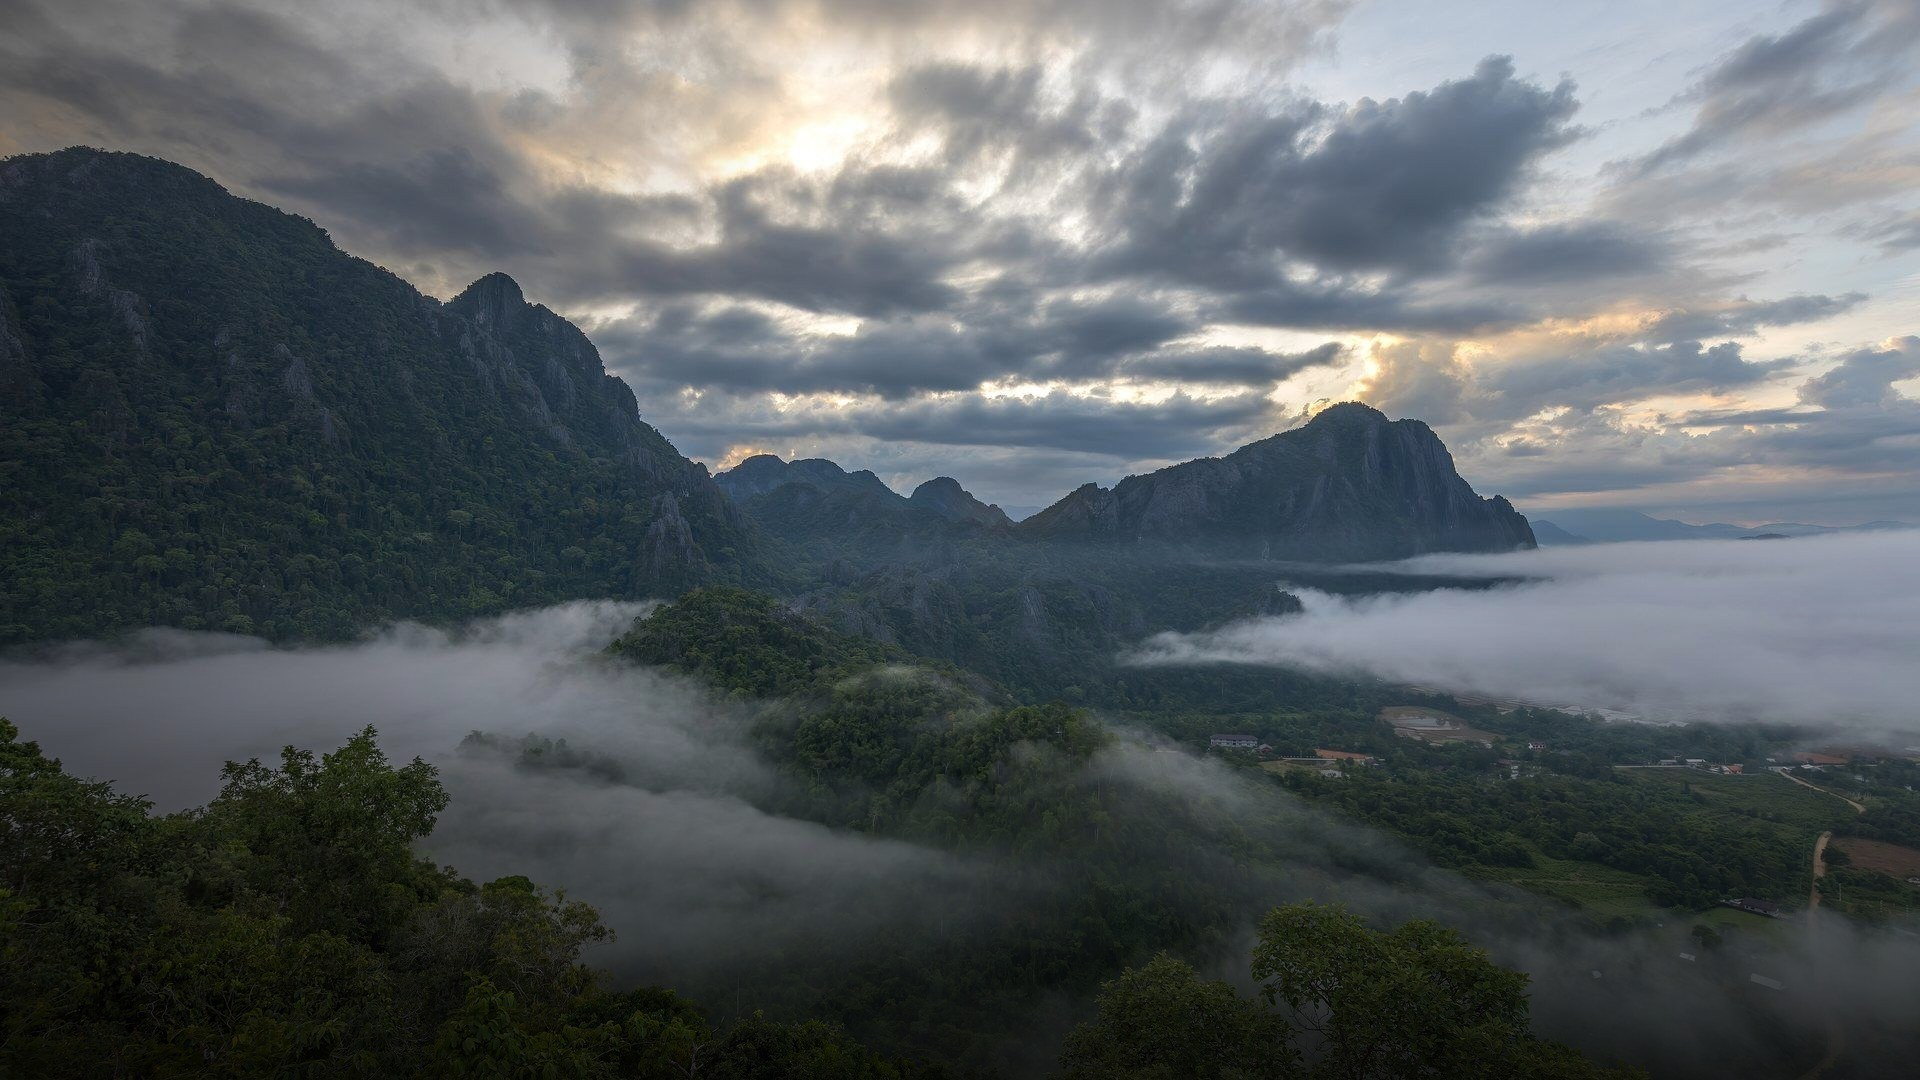
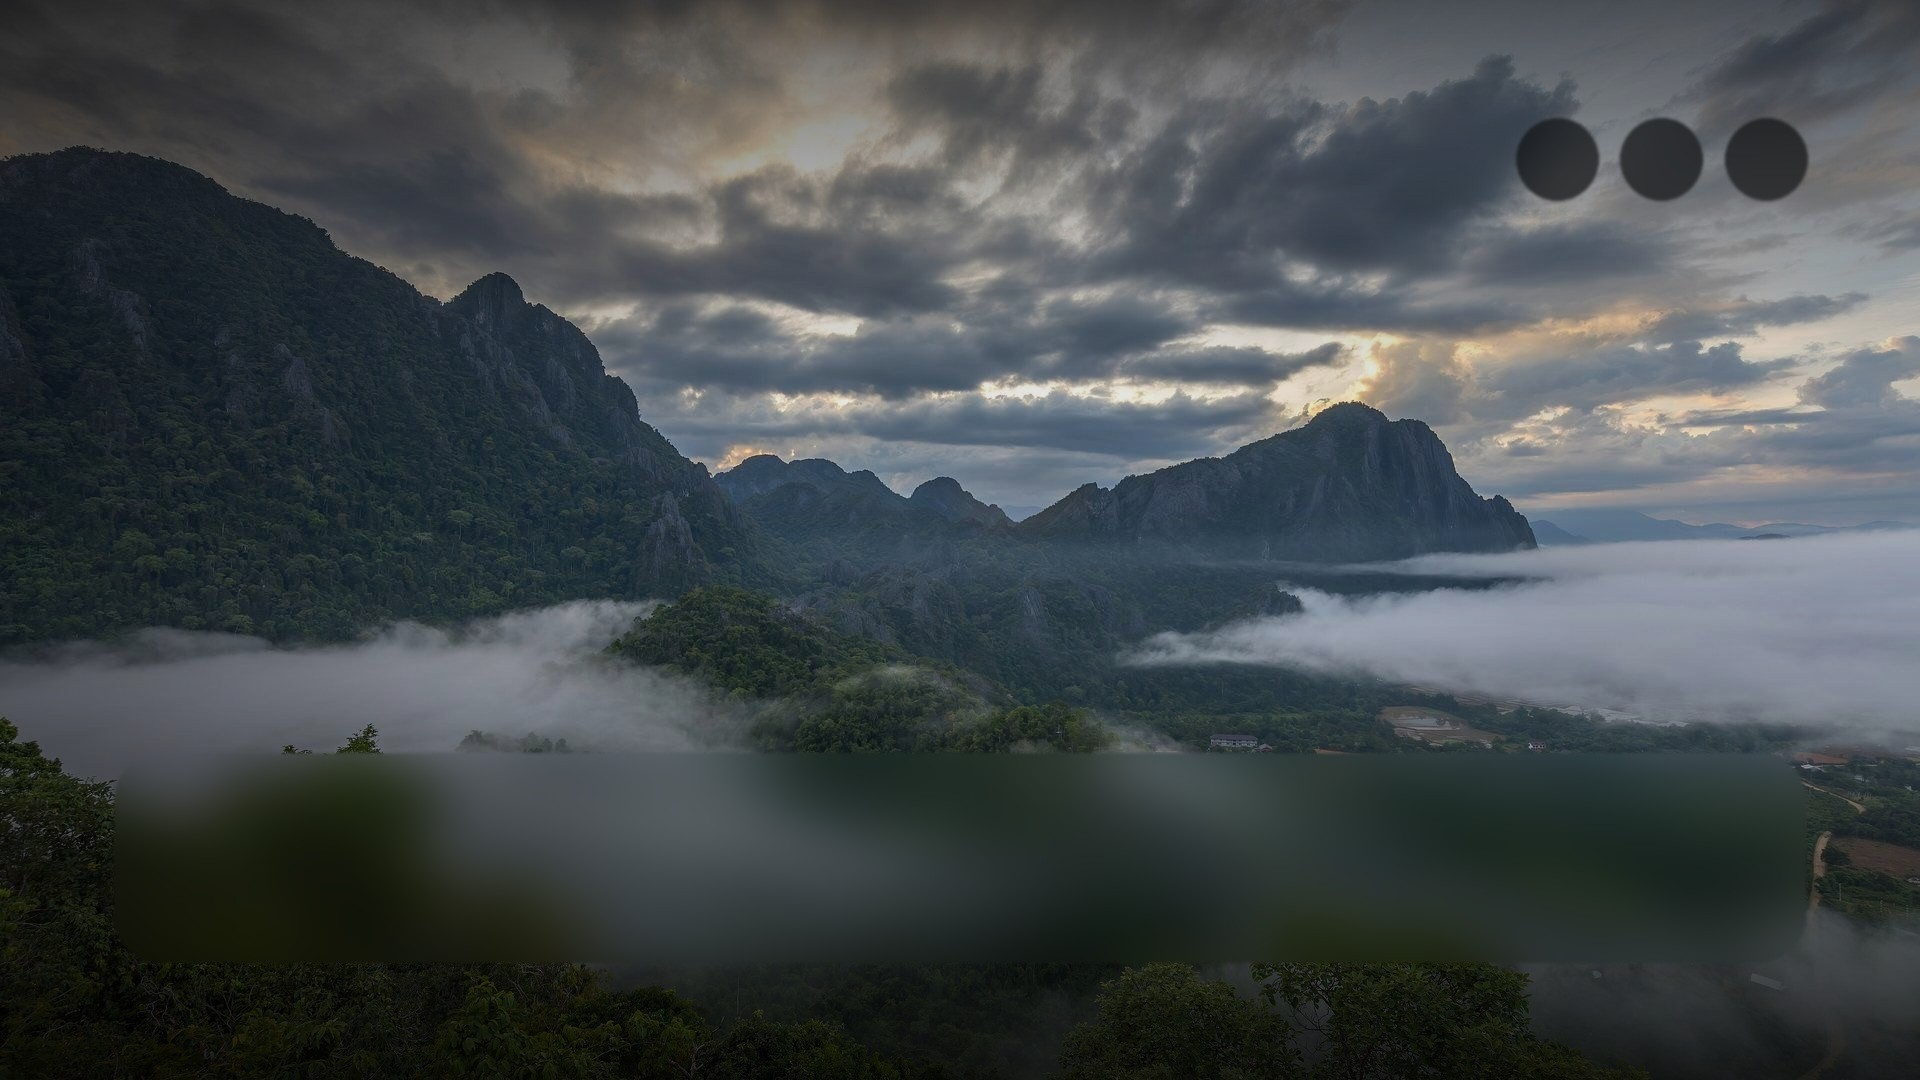
mybox: 92 frosted wallpapers, header fade, darker top buttons
80 Wikimedia Commons featured photos added to the 12 from Nature calm, all cropped to 16:9 with
a top and bottom fade and a baked frost under the dock and the top buttons (my/tools/fade.py,
frost.py). Credits in my/theme/CREDITS.md.

diff --git a/my/tools/frost.py b/my/tools/frost.py
@@ -1,0 +1,17 @@
+# Bake a frosted-glass patch (blur + saturate) under the dock band and the top-bar buttons.
+import sys,glob
+from PIL import Image,ImageDraw,ImageFilter,ImageEnhance
+src,dst=sys.argv[1],sys.argv[2]
+W,H=1920,1080
+mask=Image.new("L",(W,H),0); d=ImageDraw.Draw(mask)
+d.rounded_rectangle((114,753,1805,962),radius=46,fill=255)
+for cx in (1557,1661,1766): d.ellipse((cx-41,159-41,cx+41,159+41),fill=255)
+mask=mask.filter(ImageFilter.GaussianBlur(1.5))
+dark=Image.new("L",(W,H),0); dd=ImageDraw.Draw(dark)
+for cx in (1557,1661,1766): dd.ellipse((cx-41,159-41,cx+41,159+41),fill=150)
+dark=dark.filter(ImageFilter.GaussianBlur(1.5))
+for f in sorted(glob.glob(src+"/*.jpg")):
+    im=Image.open(f).convert("RGB"); size=im.size; im=im.resize((W,H),Image.LANCZOS)
+    fr=ImageEnhance.Color(im.filter(ImageFilter.GaussianBlur(26))).enhance(1.4)
+    im.paste(fr,(0,0),mask); im.paste(Image.new("RGB",(W,H)),(0,0),dark); im.resize(size,Image.LANCZOS).save(dst+"/"+f.split("/")[-1],quality=90)
+print("frosted")

diff --git a/my/tools/fade.py b/my/tools/fade.py
@@ -1,0 +1,11 @@
+import sys,glob
+from PIL import Image
+src,dst,top,alpha=sys.argv[1],sys.argv[2],float(sys.argv[3]),float(sys.argv[4])
+for f in sorted(glob.glob(src+"/*.jpg")):
+    im=Image.open(f).convert("RGB"); w,h=im.size
+    g=Image.new("L",(1,h))
+    for y in range(h):
+        t=max(0,(y/h-top)/(1-top), ((1-y/h)-top)/(1-top)); g.putpixel((0,y),int(255*alpha*t**1.6))  # footer and mirrored header
+    im.paste(Image.new("RGB",(w,h)),(0,0),g.resize((w,h)))
+    im.save(dst+"/"+f.split("/")[-1],quality=88)
+print("done")

diff --git a/my/theme/CREDITS.md b/my/theme/CREDITS.md
@@ -31,3 +31,90 @@ Licences: CC BY 4.0 https://creativecommons.org/licenses/by/4.0/ , CC BY-SA 4.0 
 CC BY-SA 3.0 https://creativecommons.org/licenses/by-sa/3.0/
 
 Modified for this fork: a dark fade over the bottom half of each photo, for dock readability.
+
+## Added for this fork (013.jpg to 092.jpg)
+
+Wikimedia Commons featured pictures, cropped to 16:9, with the fade and frost.
+
+| File | Title | Author | Licence | Source |
+|---|---|---|---|---|
+| 013.jpg | Pferdskopf - Over the clouds | Jörg Braukmann | CC BY-SA 4.0 | https://commons.wikimedia.org/wiki/File:Pferdskopf_-_Over_the_clouds.jpg |
+| 014.jpg | Skútuá valley seen from Siglufjörður (2024) | ThibautRe | CC BY-SA 4.0 | https://commons.wikimedia.org/wiki/File:Sk%C3%BAtu%C3%A1_valley_seen_from_Siglufj%C3%B6r%C3%B0ur_(2024).jpg |
+| 015.jpg | Sunset in the Himalayas | Sergey Pesterev | CC BY-SA 4.0 | https://commons.wikimedia.org/wiki/File:Sunset_in_the_Himalayas.jpg |
+| 016.jpg | Phalacrocorax carbo, Egretta garzetta and Mareca strepera in Taudha La | Prasan Shrestha | CC BY-SA 4.0 | https://commons.wikimedia.org/wiki/File:Phalacrocorax_carbo,_Egretta_garzetta_and_Mareca_strepera_in_Taudha_Lake.jpg |
+| 017.jpg | Dülmen, Leuste, Bäume im Nebel -- 2020 -- 5041 | Dietmar Rabich | CC BY-SA 4.0 | https://commons.wikimedia.org/wiki/File:D%C3%BClmen,_Leuste,_B%C3%A4ume_im_Nebel_--_2020_--_5041.jpg |
+| 018.jpg | Haltern am See, Westruper Heide -- 2021 -- 4714-8 | Dietmar Rabich | CC BY-SA 4.0 | https://commons.wikimedia.org/wiki/File:Haltern_am_See,_Westruper_Heide_--_2021_--_4714-8.jpg |
+| 019.jpg | Dülmen, Leuste, Bäume im Nebel -- 2020 -- 5042 (bw) | Dietmar Rabich | CC BY-SA 4.0 | https://commons.wikimedia.org/wiki/File:D%C3%BClmen,_Leuste,_B%C3%A4ume_im_Nebel_--_2020_--_5042_(bw).jpg |
+| 020.jpg | Karst peaks with sea of clouds at sunrise, South view from the top of  | Basile Morin | CC BY-SA 4.0 | https://commons.wikimedia.org/wiki/File:Karst_peaks_with_sea_of_clouds_at_sunrise,_South_view_from_the_top_of_Mount_Nam_Xay,_Vang_Vieng,_Laos.jpg |
+| 021.jpg | Wisła wczesnym ranem poniżej zapory w Łączanach pod Krakowem, 20250105 | Jakub Hałun | CC BY 4.0 | https://commons.wikimedia.org/wiki/File:Wis%C5%82a_wczesnym_ranem_poni%C5%BCej_zapory_w_%C5%81%C4%85czanach_pod_Krakowem,_20250105_0832_6930.jpg |
+| 022.jpg | Wisła wczesnym ranem poniżej zapory w Łączanach pod Krakowem, 20250105 | Jakub Hałun | CC BY 4.0 | https://commons.wikimedia.org/wiki/File:Wis%C5%82a_wczesnym_ranem_poni%C5%BCej_zapory_w_%C5%81%C4%85czanach_pod_Krakowem,_20250105_0836_6943.jpg |
+| 023.jpg | Desenka meadow 2016 G1 | George Chernilevsky | Public domain | https://commons.wikimedia.org/wiki/File:Desenka_meadow_2016_G1.jpg |
+| 024.jpg | Desna Sosonka 2026 G9 | George Chernilevsky | CC BY 4.0 | https://commons.wikimedia.org/wiki/File:Desna_Sosonka_2026_G9.jpg |
+| 025.jpg | Desna river Vinn meadow 2016 G2 | George Chernilevsky | Public domain | https://commons.wikimedia.org/wiki/File:Desna_river_Vinn_meadow_2016_G2.jpg |
+| 026.jpg | Desna river Vinn meadow 2016 G9 | George Chernilevsky | Public domain | https://commons.wikimedia.org/wiki/File:Desna_river_Vinn_meadow_2016_G9.jpg |
+| 027.jpg | Desna river Vinn meadow 2019 G01 | George Chernilevsky | Public domain | https://commons.wikimedia.org/wiki/File:Desna_river_Vinn_meadow_2019_G01.jpg |
+| 028.jpg | Dülmen, Börnste, Eisenbahnlinie Dortmund-Enschede -- 2015 -- 9918 | Dietmar Rabich | CC BY-SA 4.0 | https://commons.wikimedia.org/wiki/File:D%C3%BClmen,_B%C3%B6rnste,_Eisenbahnlinie_Dortmund-Enschede_--_2015_--_9918.jpg |
+| 029.jpg | Foggy sunrise in High Fläming Nature Park2 | KARL-SEBASTIAN SCHULTE | CC BY 2.0 | https://commons.wikimedia.org/wiki/File:Foggy_sunrise_in_High_Fl%C3%A4ming_Nature_Park2.jpg |
+| 030.jpg | Dülmen, Kirchspiel, Börnste, Felder und Bäume -- 2017 -- 3160-6 | Dietmar Rabich | CC BY-SA 4.0 | https://commons.wikimedia.org/wiki/File:D%C3%BClmen,_Kirchspiel,_B%C3%B6rnste,_Felder_und_B%C3%A4ume_--_2017_--_3160-6.jpg |
+| 031.jpg | Dülmen, Kirchspiel, Börnste, Felder und Bäume -- 2017 -- 3220-6 | Dietmar Rabich | CC BY-SA 4.0 | https://commons.wikimedia.org/wiki/File:D%C3%BClmen,_Kirchspiel,_B%C3%B6rnste,_Felder_und_B%C3%A4ume_--_2017_--_3220-6.jpg |
+| 032.jpg | גלישת עננים למכתש רמון | Giladtop | CC BY-SA 4.0 | https://commons.wikimedia.org/wiki/File:%D7%92%D7%9C%D7%99%D7%A9%D7%AA_%D7%A2%D7%A0%D7%A0%D7%99%D7%9D_%D7%9C%D7%9E%D7%9B%D7%AA%D7%A9_%D7%A8%D7%9E%D7%95%D7%9F.jpg |
+| 033.jpg | Baumsilhouetten am Uetliberg mit Novembernebel und Sonnenstrahlen | Kuhnmi | CC BY-SA 4.0 | https://commons.wikimedia.org/wiki/File:Baumsilhouetten_am_Uetliberg_mit_Novembernebel_und_Sonnenstrahlen.jpg |
+| 034.jpg | Dülmen, Kirchspiel, Dernekamp, Wirtschaftsweg -- 2021 -- 9407 | Dietmar Rabich | CC BY-SA 4.0 | https://commons.wikimedia.org/wiki/File:D%C3%BClmen,_Kirchspiel,_Dernekamp,_Wirtschaftsweg_--_2021_--_9407.jpg |
+| 035.jpg | Fanal (Madeira, Portugal), Lorbeerwald -- 2025 -- 1546 | Dietmar Rabich | CC BY-SA 4.0 | https://commons.wikimedia.org/wiki/File:Fanal_(Madeira,_Portugal),_Lorbeerwald_--_2025_--_1546.jpg |
+| 036.jpg | Dülmen, Rorup, NSG Roruper Holz -- 2021 -- 8187-91 | Dietmar Rabich | CC BY-SA 4.0 | https://commons.wikimedia.org/wiki/File:D%C3%BClmen,_Rorup,_NSG_Roruper_Holz_--_2021_--_8187-91.jpg |
+| 037.jpg | Fanal (Madeira, Portugal), Lorbeerwald -- 2025 -- 1532 | Dietmar Rabich | CC BY-SA 4.0 | https://commons.wikimedia.org/wiki/File:Fanal_(Madeira,_Portugal),_Lorbeerwald_--_2025_--_1532.jpg |
+| 038.jpg | Birks of Aberfeldy (55085667062) | Eric Kilby from Somerville, MA, USA | CC BY-SA 4.0 | https://commons.wikimedia.org/wiki/File:Birks_of_Aberfeldy_(55085667062).jpg |
+| 039.jpg | Wooden staircase steps in the forest of Hallasan Park Eorimok Trail at | Basile Morin | CC BY-SA 4.0 | https://commons.wikimedia.org/wiki/File:Wooden_staircase_steps_in_the_forest_of_Hallasan_Park_Eorimok_Trail_at_dusk_on_Jeju_Island_in_South_Korea.jpg |
+| 040.jpg | 21-224-5054 NNP Synevyr RB 18 | Rbrechko | CC BY-SA 4.0 | https://commons.wikimedia.org/wiki/File:21-224-5054_NNP_Synevyr_RB_18.jpg |
+| 041.jpg | Im Naturwaldreservat Wildacker 15 | Stephan van Helden | CC BY-SA 4.0 | https://commons.wikimedia.org/wiki/File:Im_Naturwaldreservat_Wildacker_15.jpg |
+| 042.jpg | Dülmen, Kirchspiel, Bauerschaft Börnste -- 2017 -- 6919 | Dietmar Rabich | CC BY-SA 4.0 | https://commons.wikimedia.org/wiki/File:D%C3%BClmen,_Kirchspiel,_Bauerschaft_B%C3%B6rnste_--_2017_--_6919.jpg |
+| 043.jpg | Beech and ferns in Gullmarsskogen | W.carter | CC0 | https://commons.wikimedia.org/wiki/File:Beech_and_ferns_in_Gullmarsskogen.jpg |
+| 044.jpg | Sninský kameň (v zime) 001 | Milan Bališin | CC BY-SA 4.0 | https://commons.wikimedia.org/wiki/File:Sninsk%C3%BD_kame%C5%88_(v_zime)_001.jpg |
+| 045.jpg | Birchwood Slavnoe 2012 G1 | George Chernilevsky | Public domain | https://commons.wikimedia.org/wiki/File:Birchwood_Slavnoe_2012_G1.jpg |
+| 046.jpg | Dülmen, Umland -- 2014 -- 7056 | Dietmar Rabich | CC BY-SA 4.0 | https://commons.wikimedia.org/wiki/File:D%C3%BClmen,_Umland_--_2014_--_7056.jpg |
+| 047.jpg | Overgrown dead tree stumps 15 | Dominicus Johannes Bergsma | CC BY-SA 4.0 | https://commons.wikimedia.org/wiki/File:Overgrown_dead_tree_stumps_15.jpg |
+| 048.jpg | Panixersee (Lag da Pigniu) boven Andiast. 26-09-2025. (d.j.b.) 09 | Dominicus Johannes Bergsma. | CC BY-SA 4.0 | https://commons.wikimedia.org/wiki/File:Panixersee_(Lag_da_Pigniu)_boven_Andiast._26-09-2025._(d.j.b.)_09.jpg |
+| 049.jpg | S-charl, Clemgia zijrivier van de Inn. 12-10-2024. (d.j.b) 03 | Dominicus Johannes Bergsma | CC BY-SA 4.0 | https://commons.wikimedia.org/wiki/File:S-charl,_Clemgia_zijrivier_van_de_Inn._12-10-2024._(d.j.b)_03.jpg |
+| 050.jpg | S-charl richting Alp Sesvenna. 12-10-2024. (d.j.b) 04 | Dominicus Johannes Bergsma | CC BY-SA 4.0 | https://commons.wikimedia.org/wiki/File:S-charl_richting_Alp_Sesvenna._12-10-2024._(d.j.b)_04.jpg |
+| 051.jpg | 1 lake louise pano 2019 | Chensiyuan | CC BY-SA 4.0 | https://commons.wikimedia.org/wiki/File:1_lake_louise_pano_2019.jpg |
+| 052.jpg | Вид Нижний Урунгач | Arina Pan | CC BY-SA 4.0 | https://commons.wikimedia.org/wiki/File:%D0%92%D0%B8%D0%B4_%D0%9D%D0%B8%D0%B6%D0%BD%D0%B8%D0%B9_%D0%A3%D1%80%D1%83%D0%BD%D0%B3%D0%B0%D1%87.jpg |
+| 053.jpg | Lac de Roy 10 | Krzysztof Golik | CC BY-SA 4.0 | https://commons.wikimedia.org/wiki/File:Lac_de_Roy_10.jpg |
+| 054.jpg | Lake Tahoe at morning - 7-2023 | John D. | CC BY 2.0 | https://commons.wikimedia.org/wiki/File:Lake_Tahoe_at_morning_-_7-2023.jpg |
+| 055.jpg | Heilbronn - Böckingen - Ziegeleipark - Ziegeleisee - Ansicht von Osten | Roman Eisele | CC BY-SA 4.0 | https://commons.wikimedia.org/wiki/File:Heilbronn_-_B%C3%B6ckingen_-_Ziegeleipark_-_Ziegeleisee_-_Ansicht_von_Osten_im_Fr%C3%BChling_(2.2,_mit_Schwan).jpg |
+| 056.jpg | Parque Eagle River, Anchorage, Alaska, Estados Unidos, 2017-09-01, DD  | Diego Delso | CC BY-SA 4.0 | https://commons.wikimedia.org/wiki/File:Parque_Eagle_River,_Anchorage,_Alaska,_Estados_Unidos,_2017-09-01,_DD_02.jpg |
+| 057.jpg | East End of Rundle and Whitemans Pond | The Cosmonaut | CC BY-SA 2.5 ca | https://commons.wikimedia.org/wiki/File:East_End_of_Rundle_and_Whitemans_Pond.jpg |
+| 058.jpg | Foggy Reflections - Loch Tummel | Eric Kilby | CC BY-SA 4.0 | https://commons.wikimedia.org/wiki/File:Foggy_Reflections_-_Loch_Tummel.jpg |
+| 059.jpg | 2015 Spullersee im Lechquellengebirge | Feel free to use my photos, but please m | CC BY-SA 3.0 at | https://commons.wikimedia.org/wiki/File:2015_Spullersee_im_Lechquellengebirge.jpg |
+| 060.jpg | Lac du Salagou - October 2020 | Christian Ferrer | CC BY 4.0 | https://commons.wikimedia.org/wiki/File:Lac_du_Salagou_-_October_2020.jpg |
+| 061.jpg | Lake Gosaikunda | Sergey Pesterev | CC BY-SA 4.0 | https://commons.wikimedia.org/wiki/File:Lake_Gosaikunda.jpg |
+| 062.jpg | Pörtschach Gloriette-Blick auf Wörther See und Blumeninsel 19112015 92 | Johann Jaritz | CC BY-SA 4.0 | https://commons.wikimedia.org/wiki/File:P%C3%B6rtschach_Gloriette-Blick_auf_W%C3%B6rther_See_und_Blumeninsel_19112015_9211.jpg |
+| 063.jpg | Building of the Salins de Frontignan 14 | Christian Ferrer | CC BY 4.0 | https://commons.wikimedia.org/wiki/File:Building_of_the_Salins_de_Frontignan_14.jpg |
+| 064.jpg | La Roque, Salagou Lake 01 | Christian Ferrer | CC BY 4.0 | https://commons.wikimedia.org/wiki/File:La_Roque,_Salagou_Lake_01.jpg |
+| 065.jpg | Hommikune udu Kakerdaja rabas | Abrget47j | CC BY-SA 3.0 | https://commons.wikimedia.org/wiki/File:Hommikune_udu_Kakerdaja_rabas.jpg |
+| 066.jpg | Lake Seliger. Ostashkov. View of Voroniy Island | Александр Байдуков | CC BY-SA 4.0 | https://commons.wikimedia.org/wiki/File:Lake_Seliger._Ostashkov._View_of_Voroniy_Island.jpg |
+| 067.jpg | Lac Bersau (3) | Tournasol7 | CC BY 4.0 | https://commons.wikimedia.org/wiki/File:Lac_Bersau_(3).jpg |
+| 068.jpg | Poertschach Johannes-Brahms-Promenade Promenadenbad Rutschenturm 25122 | Johann Jaritz | CC BY-SA 3.0 at | https://commons.wikimedia.org/wiki/File:Poertschach_Johannes-Brahms-Promenade_Promenadenbad_Rutschenturm_25122015_9840_169crop.jpg |
+| 069.jpg | Jamaica Bay Wildlife Refuge East Pond (61289p) | Rhododendrites | CC BY-SA 4.0 | https://commons.wikimedia.org/wiki/File:Jamaica_Bay_Wildlife_Refuge_East_Pond_(61289p).jpg |
+| 070.jpg | Dülmen, Wildpark -- 2019 -- 3153-9 | Dietmar Rabich | CC BY-SA 4.0 | https://commons.wikimedia.org/wiki/File:D%C3%BClmen,_Wildpark_--_2019_--_3153-9.jpg |
+| 071.jpg | Montmorency waterfall, Québec, Québec | Wilfredor | CC BY-SA 4.0 | https://commons.wikimedia.org/wiki/File:Montmorency_waterfall,_Qu%C3%A9bec,_Qu%C3%A9bec.jpg |
+| 072.jpg | Yosemite Falls from trail, Yosemite NP, CA, US - Diliff | Diliff | CC BY-SA 3.0 | https://commons.wikimedia.org/wiki/File:Yosemite_Falls_from_trail,_Yosemite_NP,_CA,_US_-_Diliff.jpg |
+| 073.jpg | Camp Creek State Park - Campbell Falls WV 2 LR | PumpkinSky | CC BY-SA 3.0 | https://commons.wikimedia.org/wiki/File:Camp_Creek_State_Park_-_Campbell_Falls_WV_2_LR.jpg |
+| 074.jpg | Li Phi falls at dusk with yellow sky in Don Khon Si Phan Don Laos | Basile Morin | CC BY-SA 4.0 | https://commons.wikimedia.org/wiki/File:Li_Phi_falls_at_dusk_with_yellow_sky_in_Don_Khon_Si_Phan_Don_Laos.jpg |
+| 075.jpg | Yellowstone National Park (WY, USA), Firehole River, Abflusskanal des  | Dietmar Rabich | CC BY-SA 4.0 | https://commons.wikimedia.org/wiki/File:Yellowstone_National_Park_(WY,_USA),_Firehole_River,_Abflusskanal_des_Excelsior_Geysirs_--_2022_--_2572-4.jpg |
+| 076.jpg | Li Phi falls at dusk with colorful sky in Don Khon Laos | Basile Morin | CC BY-SA 4.0 | https://commons.wikimedia.org/wiki/File:Li_Phi_falls_at_dusk_with_colorful_sky_in_Don_Khon_Laos.jpg |
+| 077.jpg | Kuang Si Falls and its emerald water pools in Luang Prabang province L | Basile Morin | CC BY-SA 4.0 | https://commons.wikimedia.org/wiki/File:Kuang_Si_Falls_and_its_emerald_water_pools_in_Luang_Prabang_province_Laos.jpg |
+| 078.jpg | Beech Forest (AU), Great Otway National Park, Beauchamp Falls -- 2019  | Dietmar Rabich | CC BY-SA 4.0 | https://commons.wikimedia.org/wiki/File:Beech_Forest_(AU),_Great_Otway_National_Park,_Beauchamp_Falls_--_2019_--_1271.jpg |
+| 079.jpg | Li Phi falls at sunrise with white and grey clouds in Don Khon Laos | Basile Morin | CC BY-SA 4.0 | https://commons.wikimedia.org/wiki/File:Li_Phi_falls_at_sunrise_with_white_and_grey_clouds_in_Don_Khon_Laos.jpg |
+| 080.jpg | Li Phi falls at sunrise with colorful clouds in Don Khon Laos | Basile Morin | CC BY-SA 4.0 | https://commons.wikimedia.org/wiki/File:Li_Phi_falls_at_sunrise_with_colorful_clouds_in_Don_Khon_Laos.jpg |
+| 081.jpg | Mount Rushmore detail view | Thomas Wolf, www.foto-tw.de | CC BY-SA 3.0 | https://commons.wikimedia.org/wiki/File:Mount_Rushmore_detail_view.jpg |
+| 082.jpg | Чинки плато Устюрт. Урочище Бозжыра | Максат79 | CC BY-SA 4.0 | https://commons.wikimedia.org/wiki/File:%D0%A7%D0%B8%D0%BD%D0%BA%D0%B8_%D0%BF%D0%BB%D0%B0%D1%82%D0%BE_%D0%A3%D1%81%D1%82%D1%8E%D1%80%D1%82._%D0%A3%D1%80%D0%BE%D1%87%D0%B8%D1%89%D0%B5_%D0%91%D0%BE%D0%B7%D0%B6%D1%8B%D1%80%D0%B0.jpg |
+| 083.jpg | Himmeldunkberg Gipfelkreuz II | Jörg Braukmann | CC BY-SA 4.0 | https://commons.wikimedia.org/wiki/File:Himmeldunkberg_Gipfelkreuz_II.jpg |
+| 084.jpg | Rotenfels 2025 | Jörg Braukmann | CC BY-SA 4.0 | https://commons.wikimedia.org/wiki/File:Rotenfels_2025.jpg |
+| 085.jpg | Vegetables Tea Fields Nilgiris Nov25 A7CR 09820-4 HDR1 | This Photo was taken by Timothy A. Gonsa | CC BY-SA 4.0 | https://commons.wikimedia.org/wiki/File:Vegetables_Tea_Fields_Nilgiris_Nov25_A7CR_09820-4_HDR1.jpg |
+| 086.jpg | Teide von Nordosten (Zuschnitt 1) | Thomas Wolf, www.foto-tw.de | CC BY-SA 3.0 de | https://commons.wikimedia.org/wiki/File:Teide_von_Nordosten_(Zuschnitt_1).jpg |
+| 087.jpg | Watzmann (Stanggaß) | Jörg Braukmann | CC BY-SA 4.0 | https://commons.wikimedia.org/wiki/File:Watzmann_(Stangga%C3%9F).jpg |
+| 088.jpg | 1 tianzishan wulingyuan zhangjiajie 2012 | chensiyuan | CC BY-SA 4.0 | https://commons.wikimedia.org/wiki/File:1_tianzishan_wulingyuan_zhangjiajie_2012.jpg |
+| 089.jpg | Hochries, Alpes del Chiemgau, Alemania, 2024-10-19, DD 34-36 HDR | Diego Delso | CC BY-SA 4.0 | https://commons.wikimedia.org/wiki/File:Hochries,_Alpes_del_Chiemgau,_Alemania,_2024-10-19,_DD_34-36_HDR.jpg |
+| 090.jpg | Chara Sands before it rains - Kalarsky District, Zabaykalsky Krai, Sib | Ellebedeva | CC BY-SA 4.0 | https://commons.wikimedia.org/wiki/File:Chara_Sands_before_it_rains_-_Kalarsky_District,_Zabaykalsky_Krai,_Siberia.jpg |
+| 091.jpg | Панорама урочища Бозжыра | Максат79 | CC BY-SA 4.0 | https://commons.wikimedia.org/wiki/File:%D0%9F%D0%B0%D0%BD%D0%BE%D1%80%D0%B0%D0%BC%D0%B0_%D1%83%D1%80%D0%BE%D1%87%D0%B8%D1%89%D0%B0_%D0%91%D0%BE%D0%B7%D0%B6%D1%8B%D1%80%D0%B0.jpg |
+| 092.jpg | North face of Mount Shasta at sunset-2175 | Frank Schulenburg | CC BY-SA 4.0 | https://commons.wikimedia.org/wiki/File:North_face_of_Mount_Shasta_at_sunset-2175.jpg |
